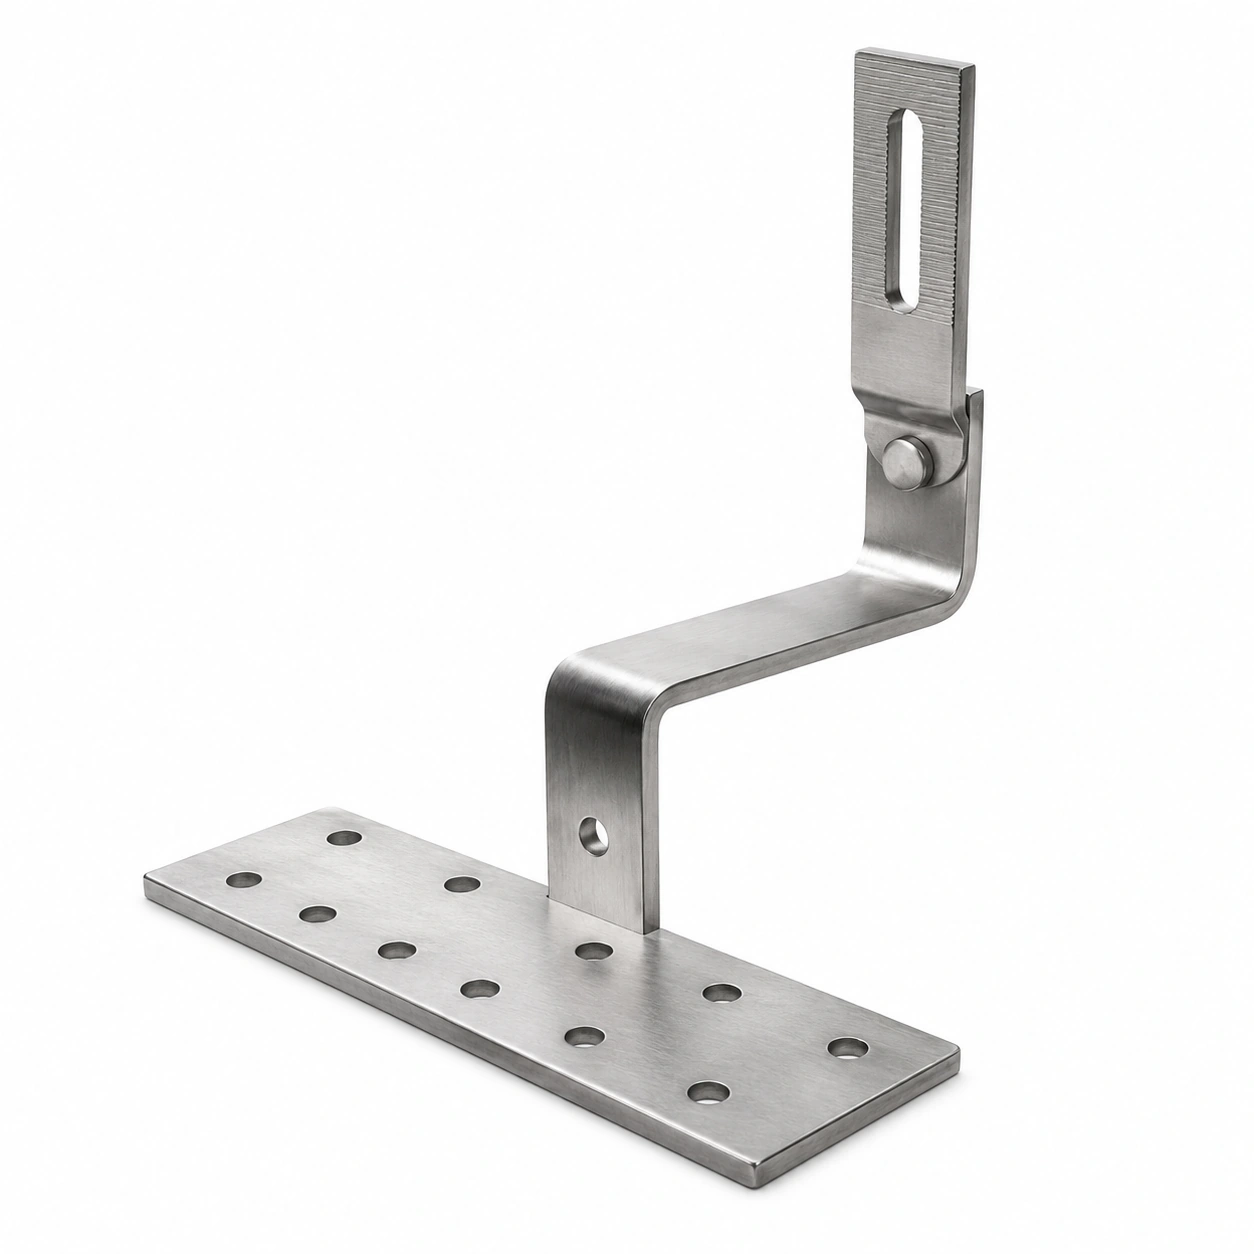
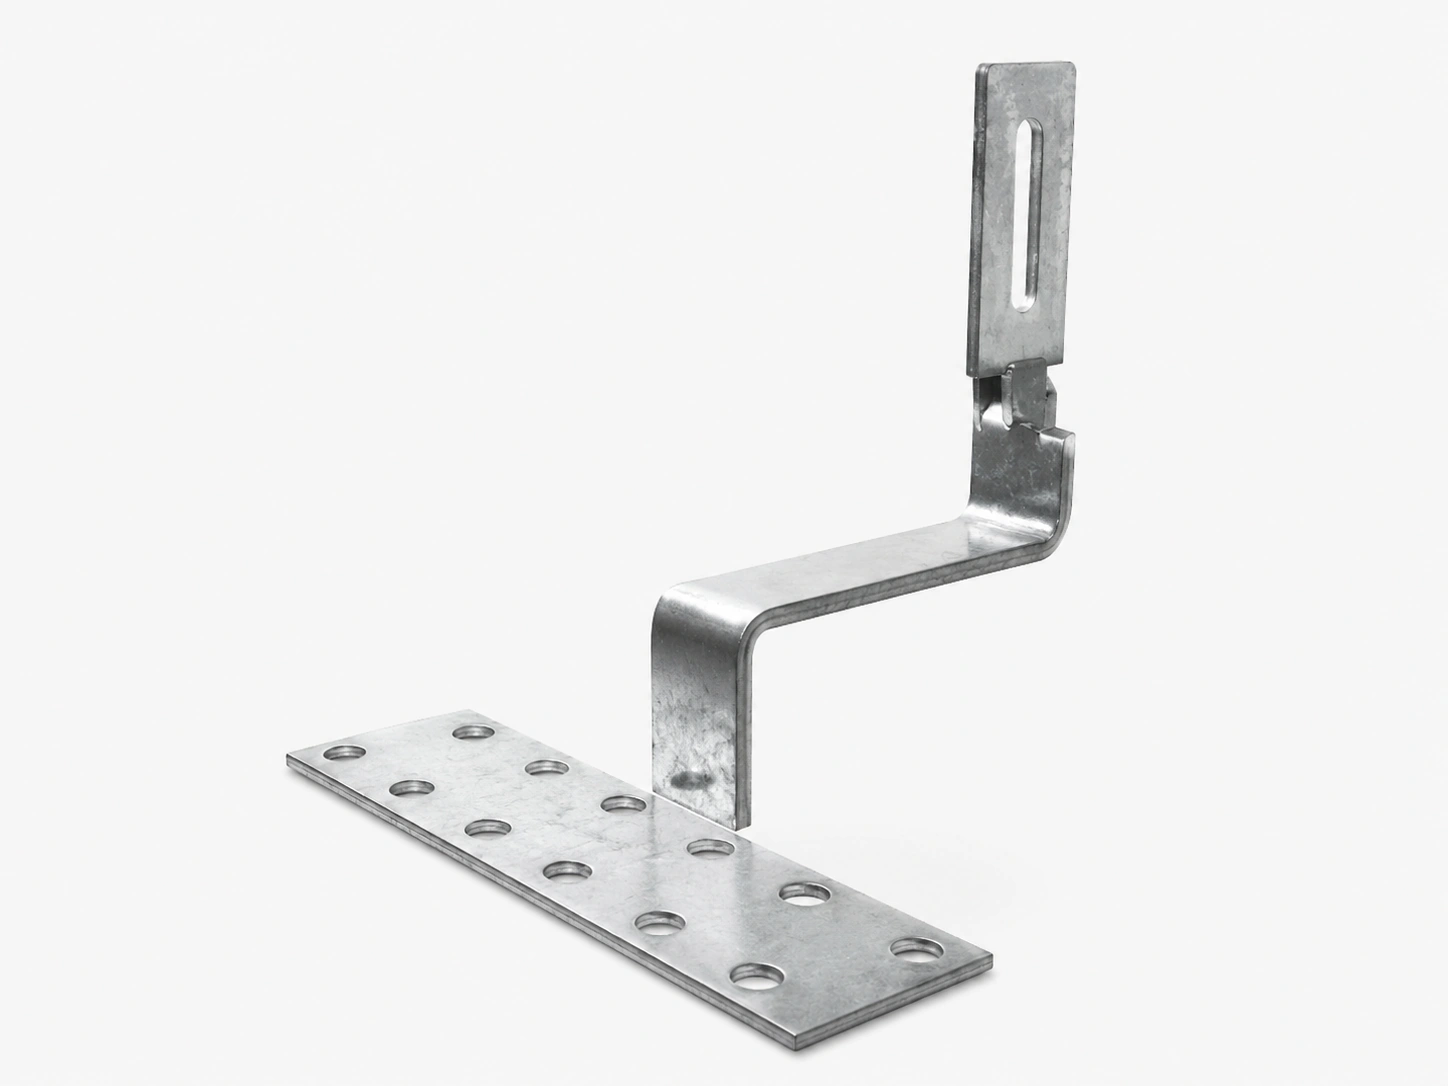
cd

Changed region(s): [[0.0933, 0.0304, 0.8086, 0.9724]]

diff --git a/app/globals.css b/app/globals.css
@@ -899,6 +899,8 @@ p { color: var(--muted); line-height: 1.72; }
   padding: 70px 0 32px;
 }
 .footerGrid { display: grid; grid-template-columns: 1.35fr .75fr 1fr 1.2fr; gap: 34px; align-items: start; }
+.footerBrand .logoLink { background: rgba(255,255,255,.98); padding: 14px 18px; border-radius: 18px; box-shadow: 0 16px 38px rgba(0,0,0,.18); display: inline-flex; }
+.footerBrand .logoImage { max-width: 205px; height: auto; }
 .footerBrand p { color: rgba(255,255,255,.72); margin-top: 18px; }
 .footerGrid h3 { color: #fff; margin-bottom: 18px; }
 .footerList a, .footerContact a, .footerContact span { color: rgba(255,255,255,.72); }